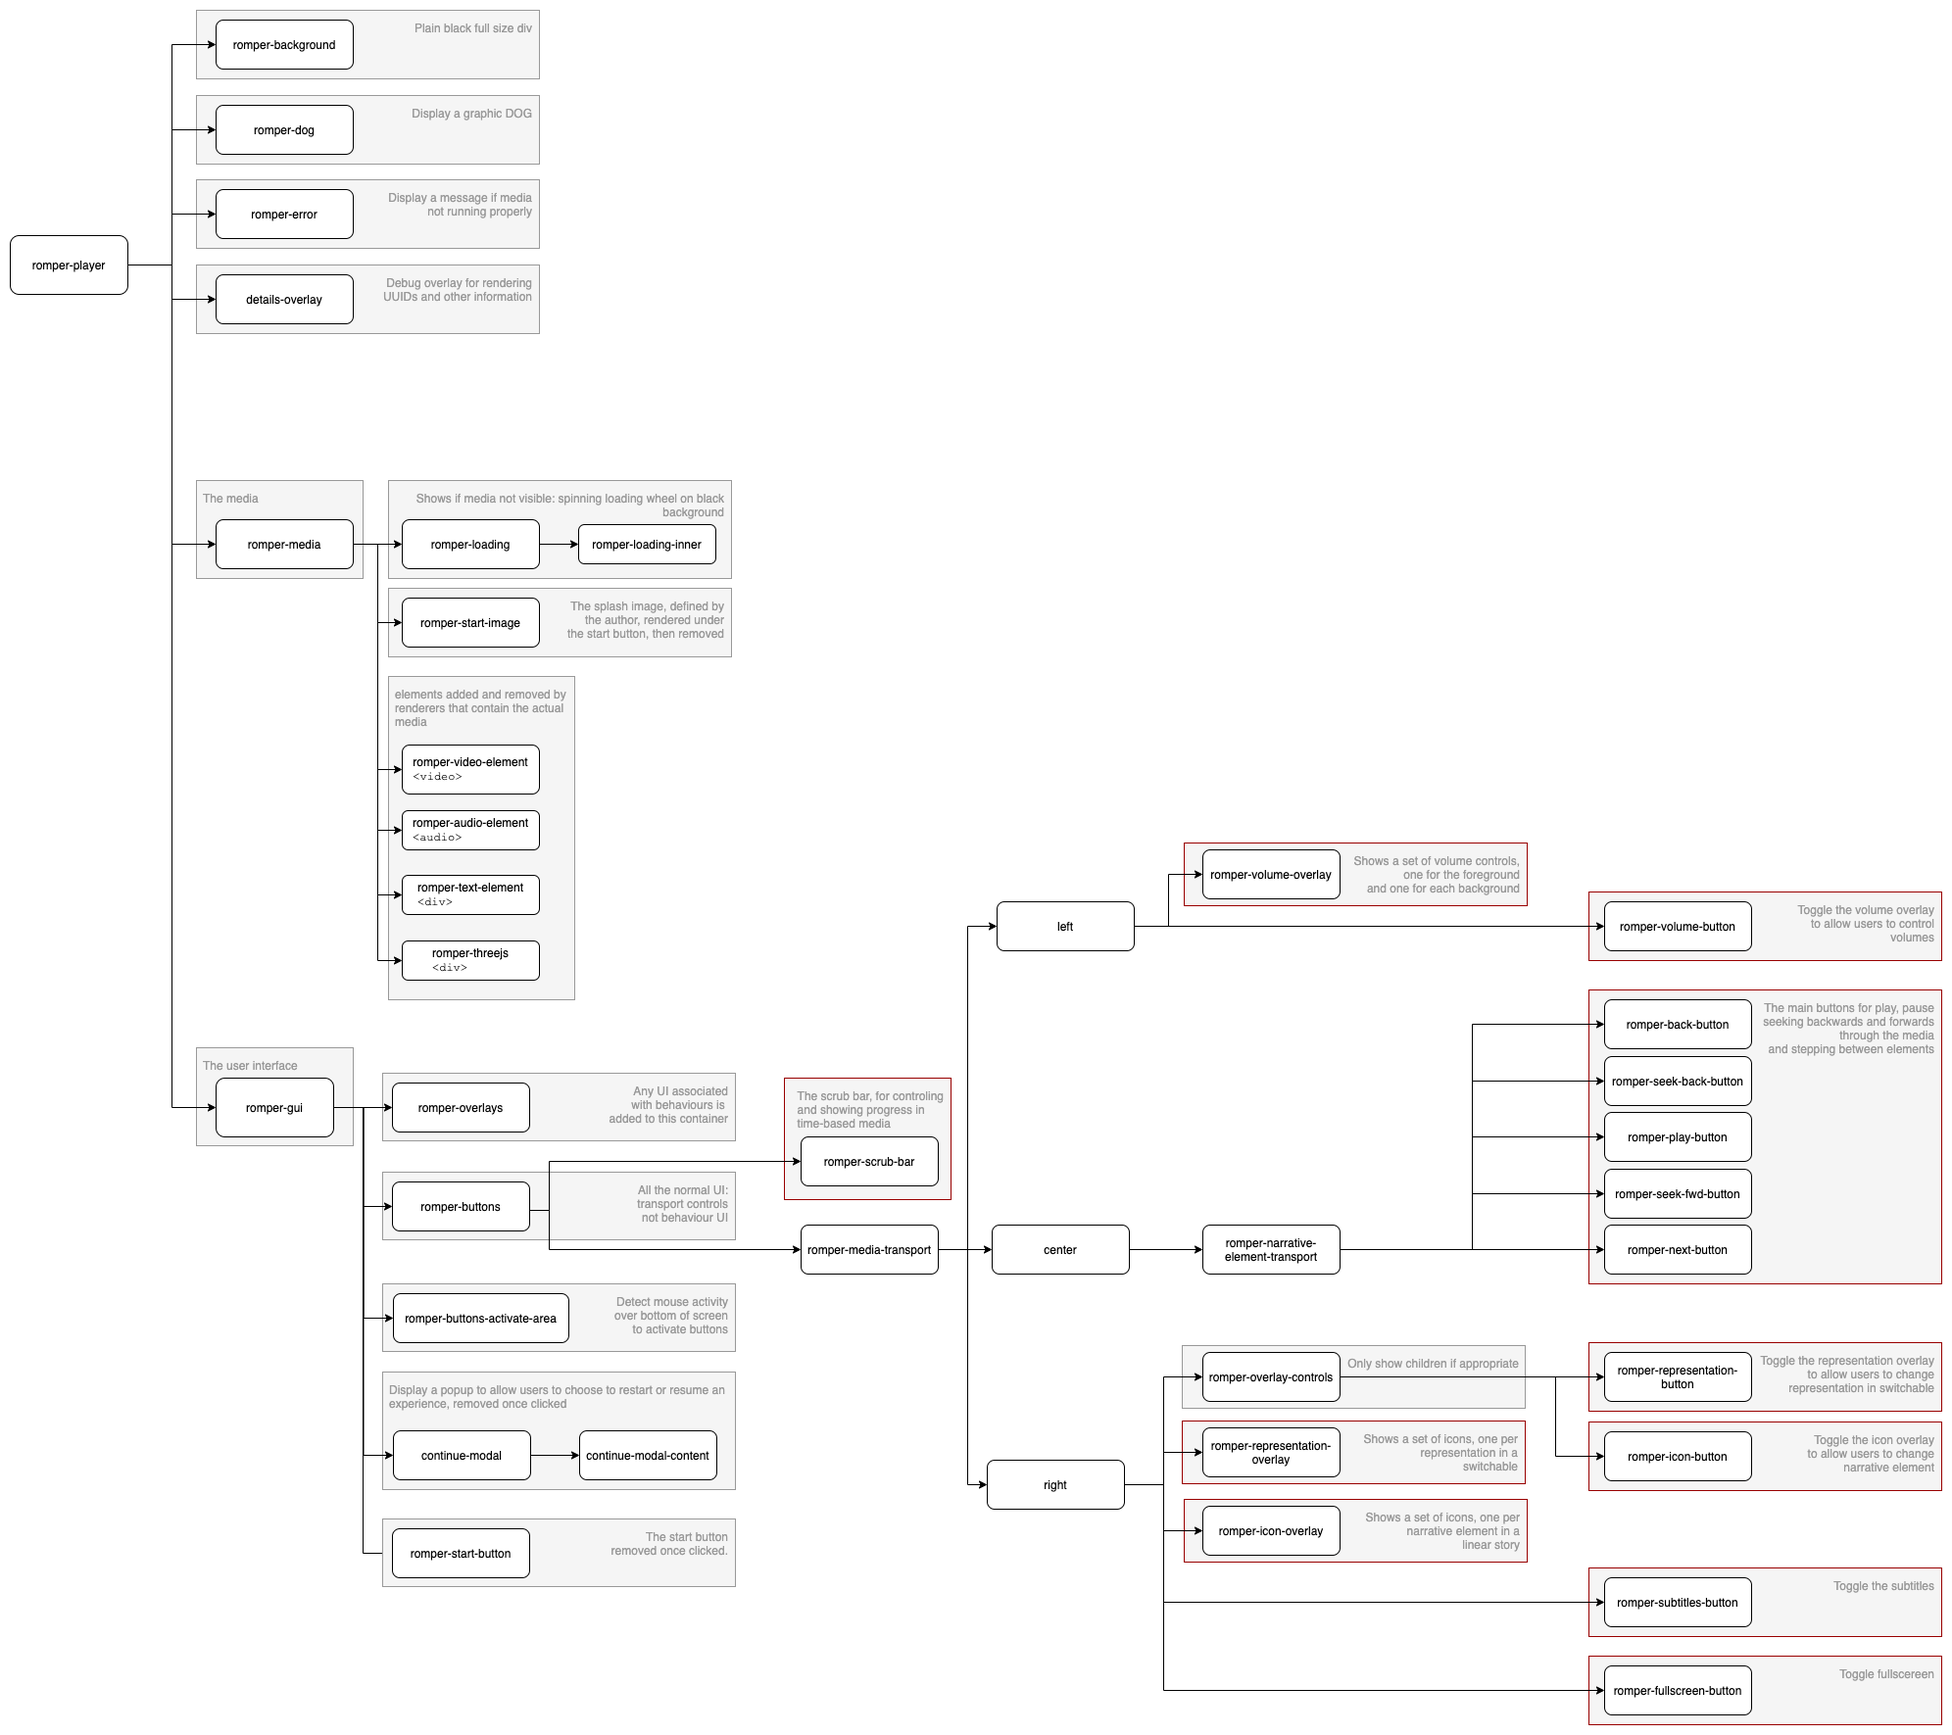
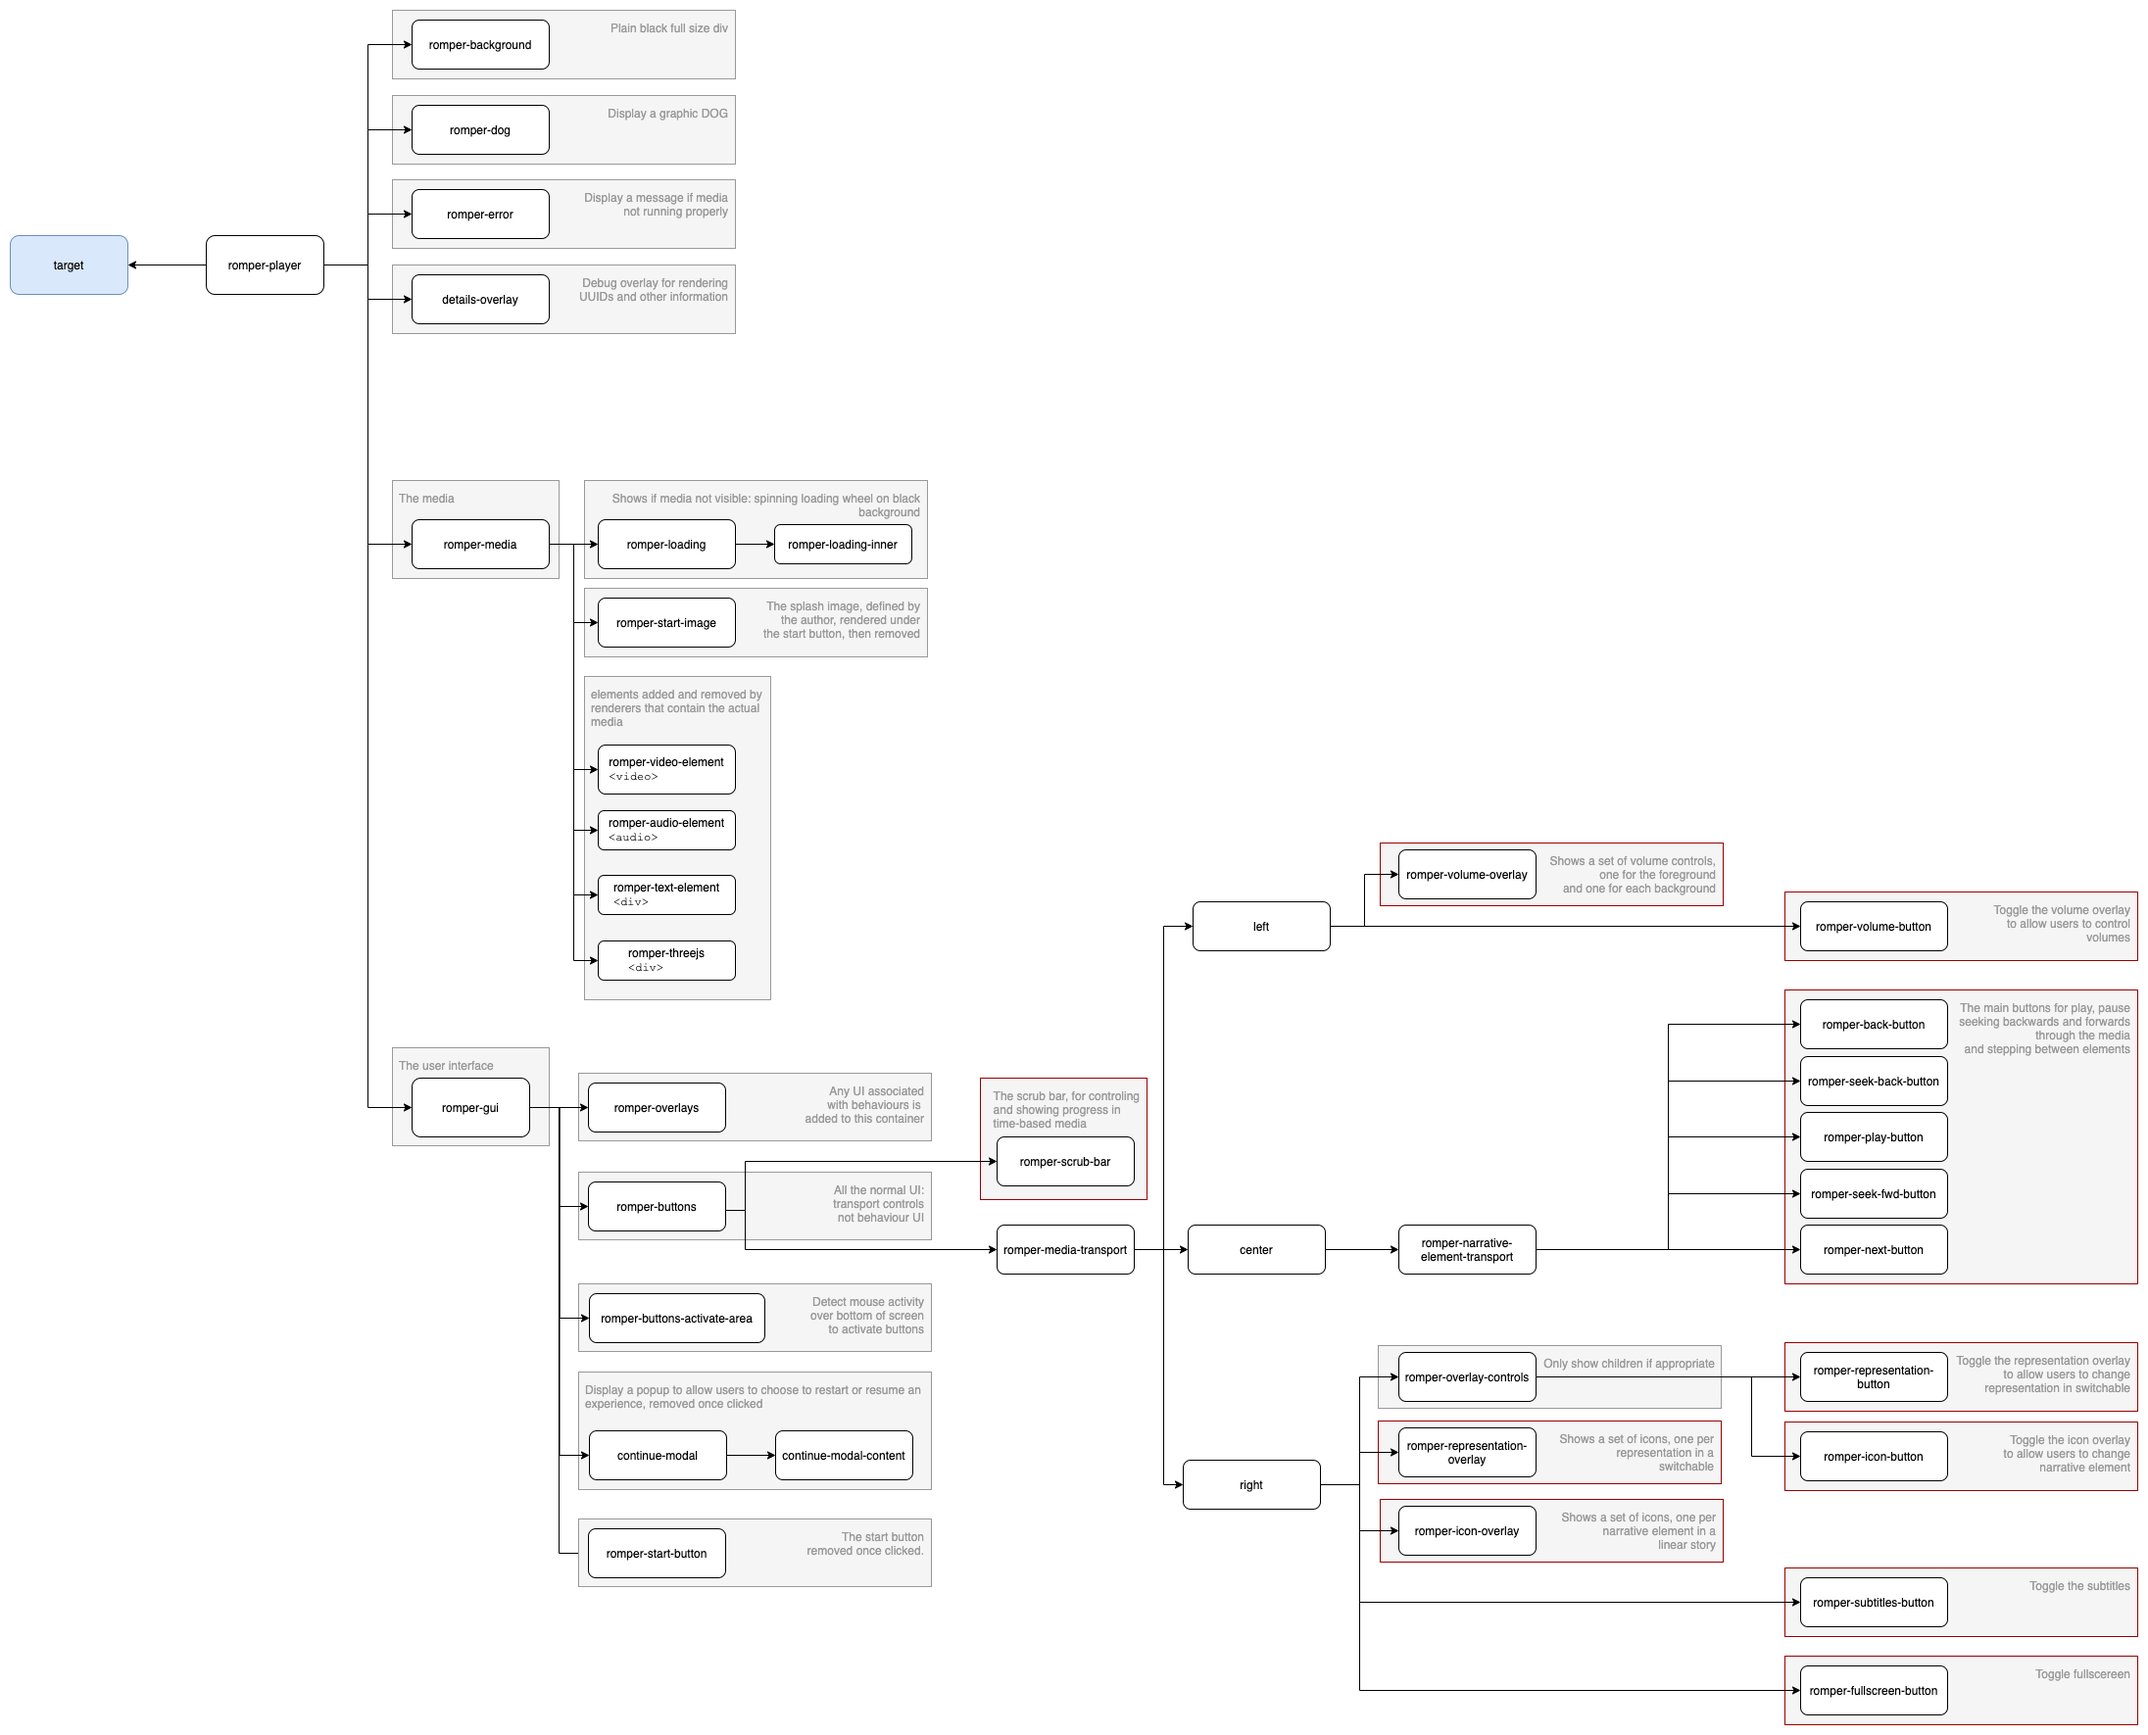
fix: corrections and clarifications

diff --git a/README.md b/README.md
@@ -11,8 +11,6 @@ How to use
 [romper.js](src/romper.js) exports an `init()` function that is used to initiate StoryPlayer and returns an instance of StoryPlayer.  It takes one argument, which is an Object containing the following attributes:
 
 * `target` - An HTML element for the player to live in.
-* `staticImageBaseUrl` - The location of some static assets used by the player (specifically image assets to used if not defined in the story)
-* `analyticsLogger` (optional, defaults to logging on the browser console) - A function that processes analytics data Objects; see [below](#analytics).  For example, the function might save the information into a database
 * fetchers - functions that take a UUID and return an Object describing an instance of the data model for the given experience.
   - `storyFetcher` - returns a [`story`](https://github.com/bbc/object-based-media-schema#story)
   - `narrativeElementFetcher` - returns a [`Narrative Element`](https://github.com/bbc/object-based-media-schema#narrative-element)
@@ -20,10 +18,12 @@ How to use
   - `representationFetcher` - returns a [`Representation`](https://github.com/bbc/object-based-media-schema#representation)
   - `assetCollectionFetcher` - returns an [`Asset Collection`](https://github.com/bbc/object-based-media-schema#asset-collection)
 * `mediaFetcher`  - A function that takes a URI for some media and returns a URL that can be given, for example, as a `src` attribute for a `<video>` element
+* `staticImageBaseUrl` - The location of some static assets used by the player (specifically image assets to used if not defined in the story)
+* `analyticsLogger` (optional, defaults to logging on the browser console) - A function that processes analytics data Objects; see [below](#analytics).  For example, the function might save the information into a database
+* `dataResolver` (optional, defaults to creating one) - contains `get` and `set` functions to get and set the values of the variables that determine the flow of logic of the story (see the [built-in DataResolver](src/resolvers/ObjectDataResolver.js)).  This can be used to hook the player into an external data store
 * `privacyNotice` (optional, defaults to null) - A string rendered alongside the start button and start image designed to present a privacy warning to users
 * `saveSession` (optional, defaults to false) - A boolean to say whether or not the player should save state and offer to resume when restarted
 * `handleKeys` (optional, defaults to true) - A boolean to say whether keyboard events should be handled by the player
-* `dataResolver` (optional, defaults to creating one) - contains `get` and `set` functions to get and set the values of the variables that determine the flow of logic of the story (see the [built-in DataResolver](src/resolvers/ObjectDataResolver.js))
 
 For example, in a Node/React application import the player:
 
@@ -33,10 +33,10 @@ import Storyplayer, { VARIABLE_EVENTS,  REASONER_EVENTS } from '@bbc/storyplayer
 
 Initiate it using an Object with the attributes described above:
 ```
-    const playerSettings = {
+    const playerSettingsObject = {
         // an Object including the above attributes
     }
-    this.storyplayer = Romper.init({ playerSettings });
+    this.storyplayer = Romper.init(playerSettingsObject);
 ```
 
 The returned instance will fire events that can be listened for and handled.  For example:
@@ -123,7 +123,7 @@ StoryPlayer creates and manipulates some variables as it runs.  These are availa
 
 Document Object Model
 ---------------------
-The following diagram shows how the HTML elements that make up StoryPlayer are organised.  The elements are labelled with their primary CSS class name.
+The following diagram shows how the HTML elements that make up StoryPlayer are organised.  The elements are labelled with their primary CSS class name.  The blue `target` node at the root of the tree is the `<div>` that is passed into StoryPlayer when it is initiated.
 
 ![StoryPlayer DOM](docs/img/storyplayer-dom.png)
 
